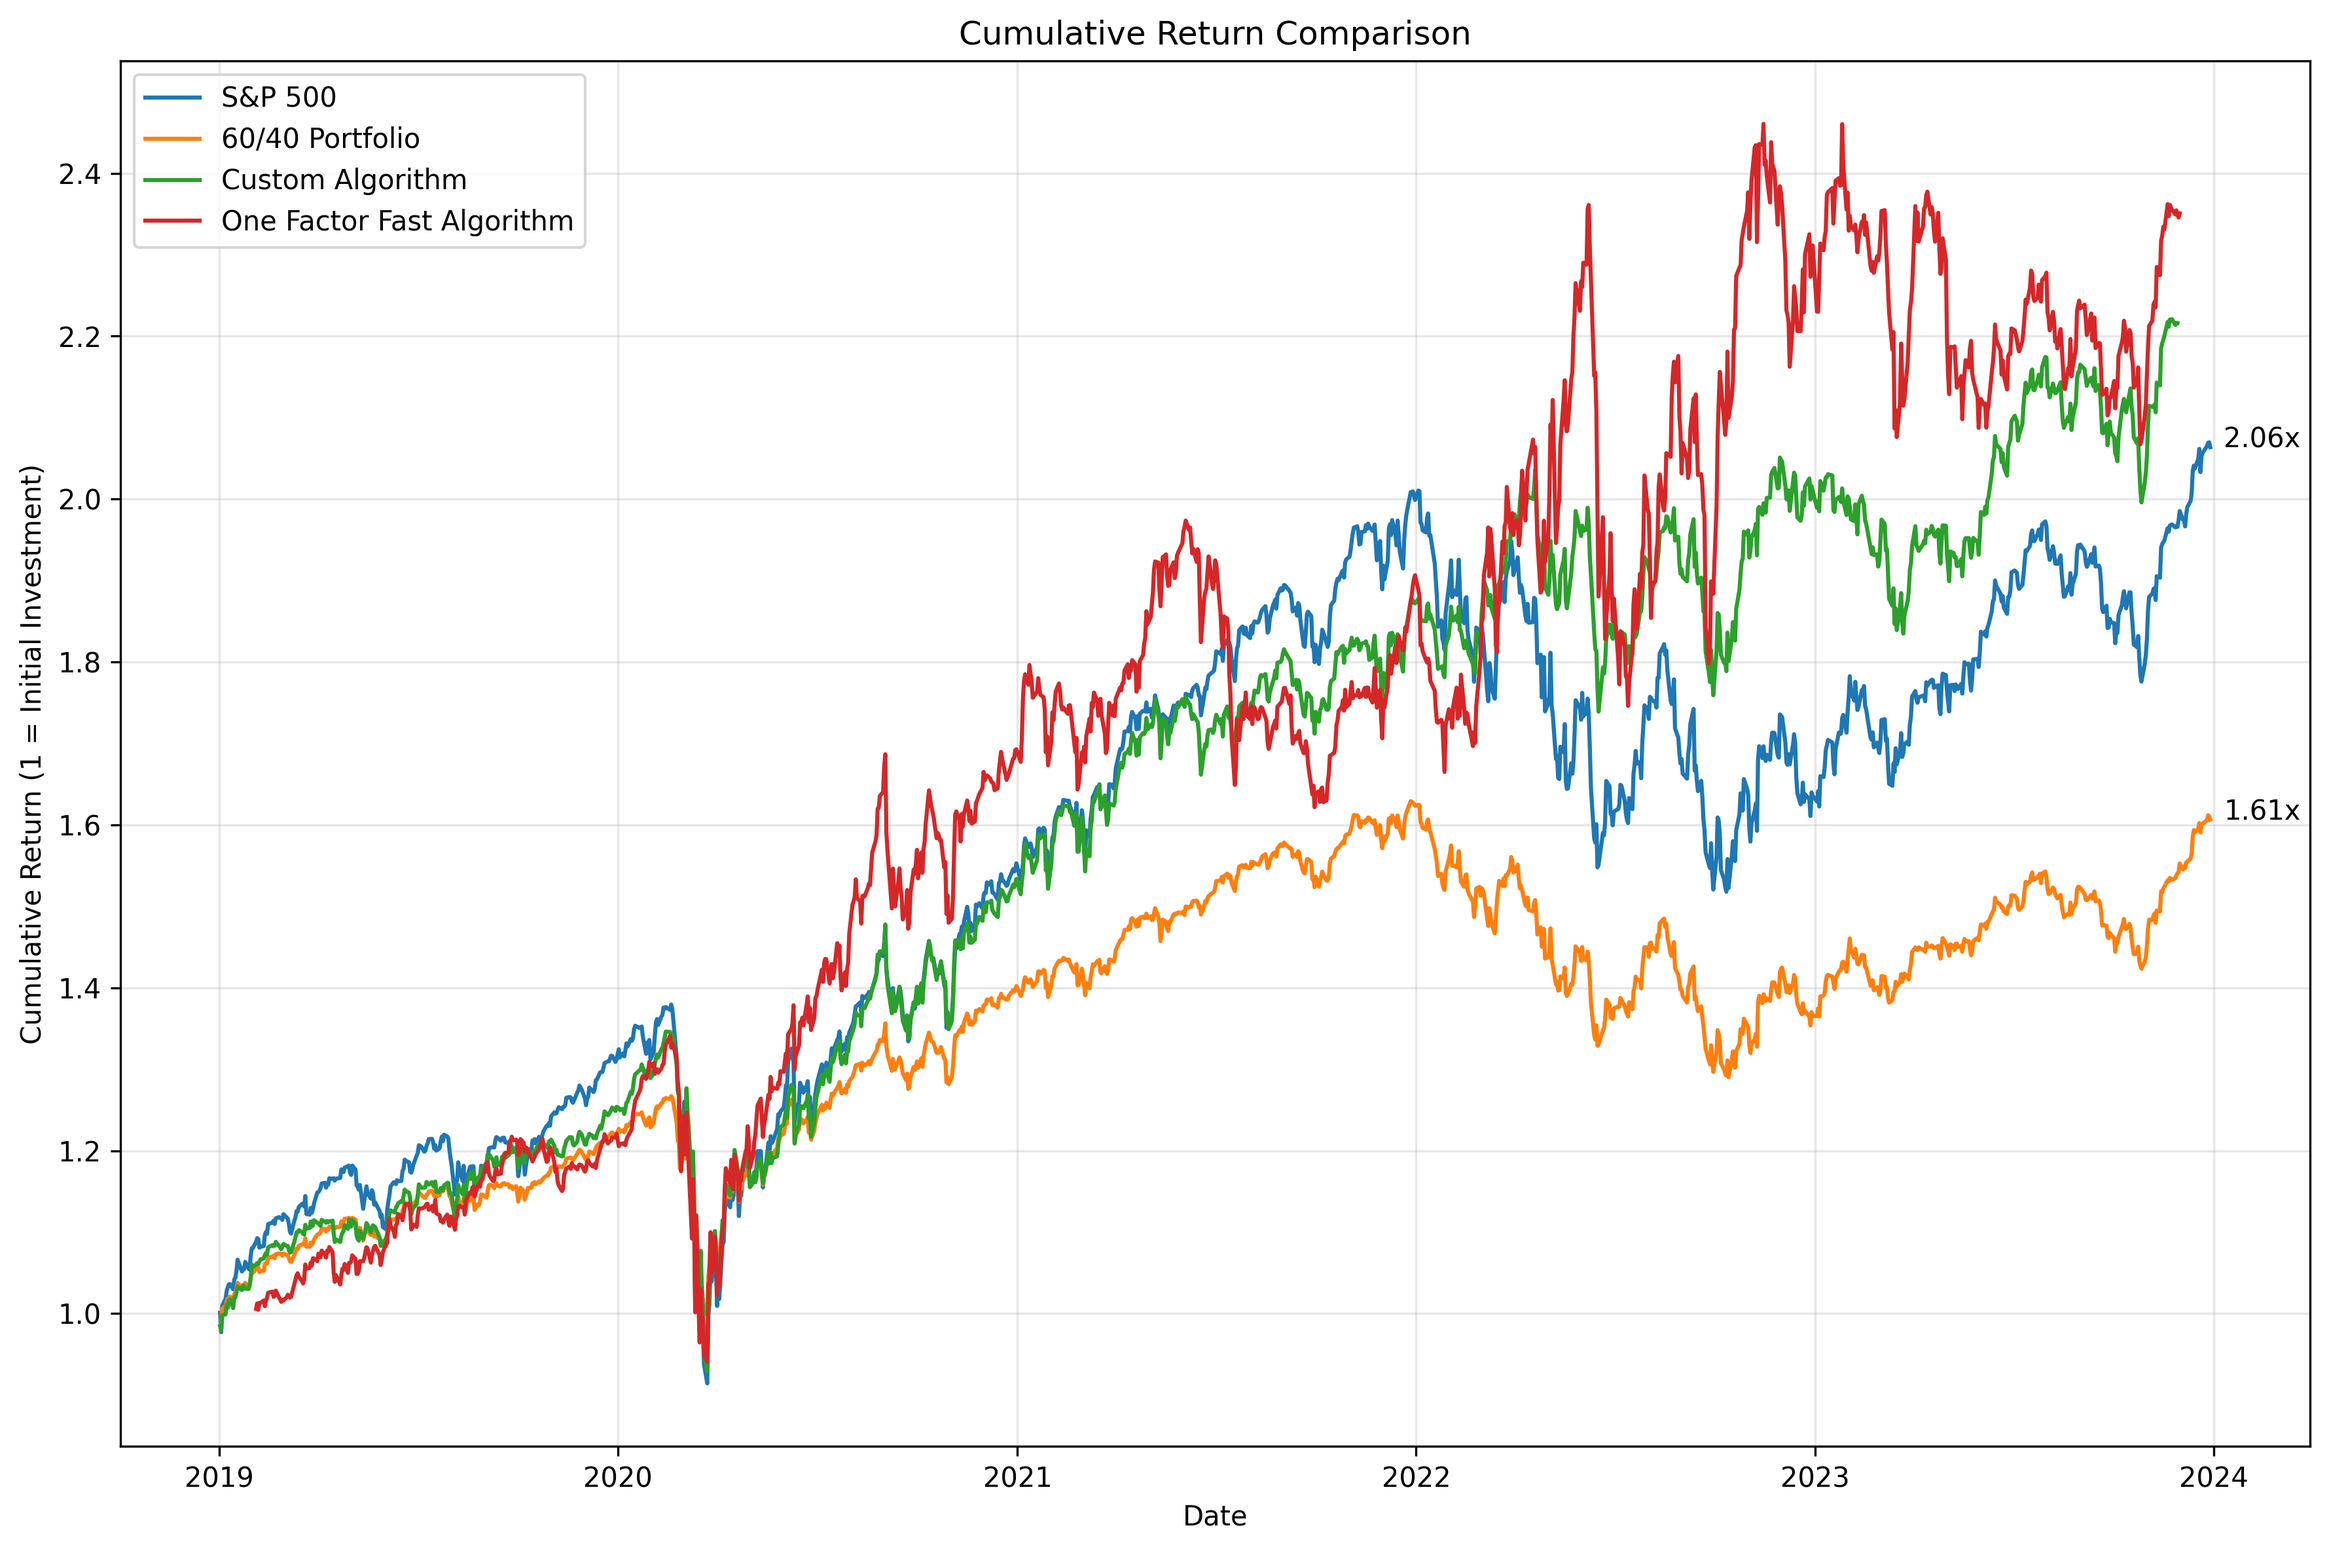
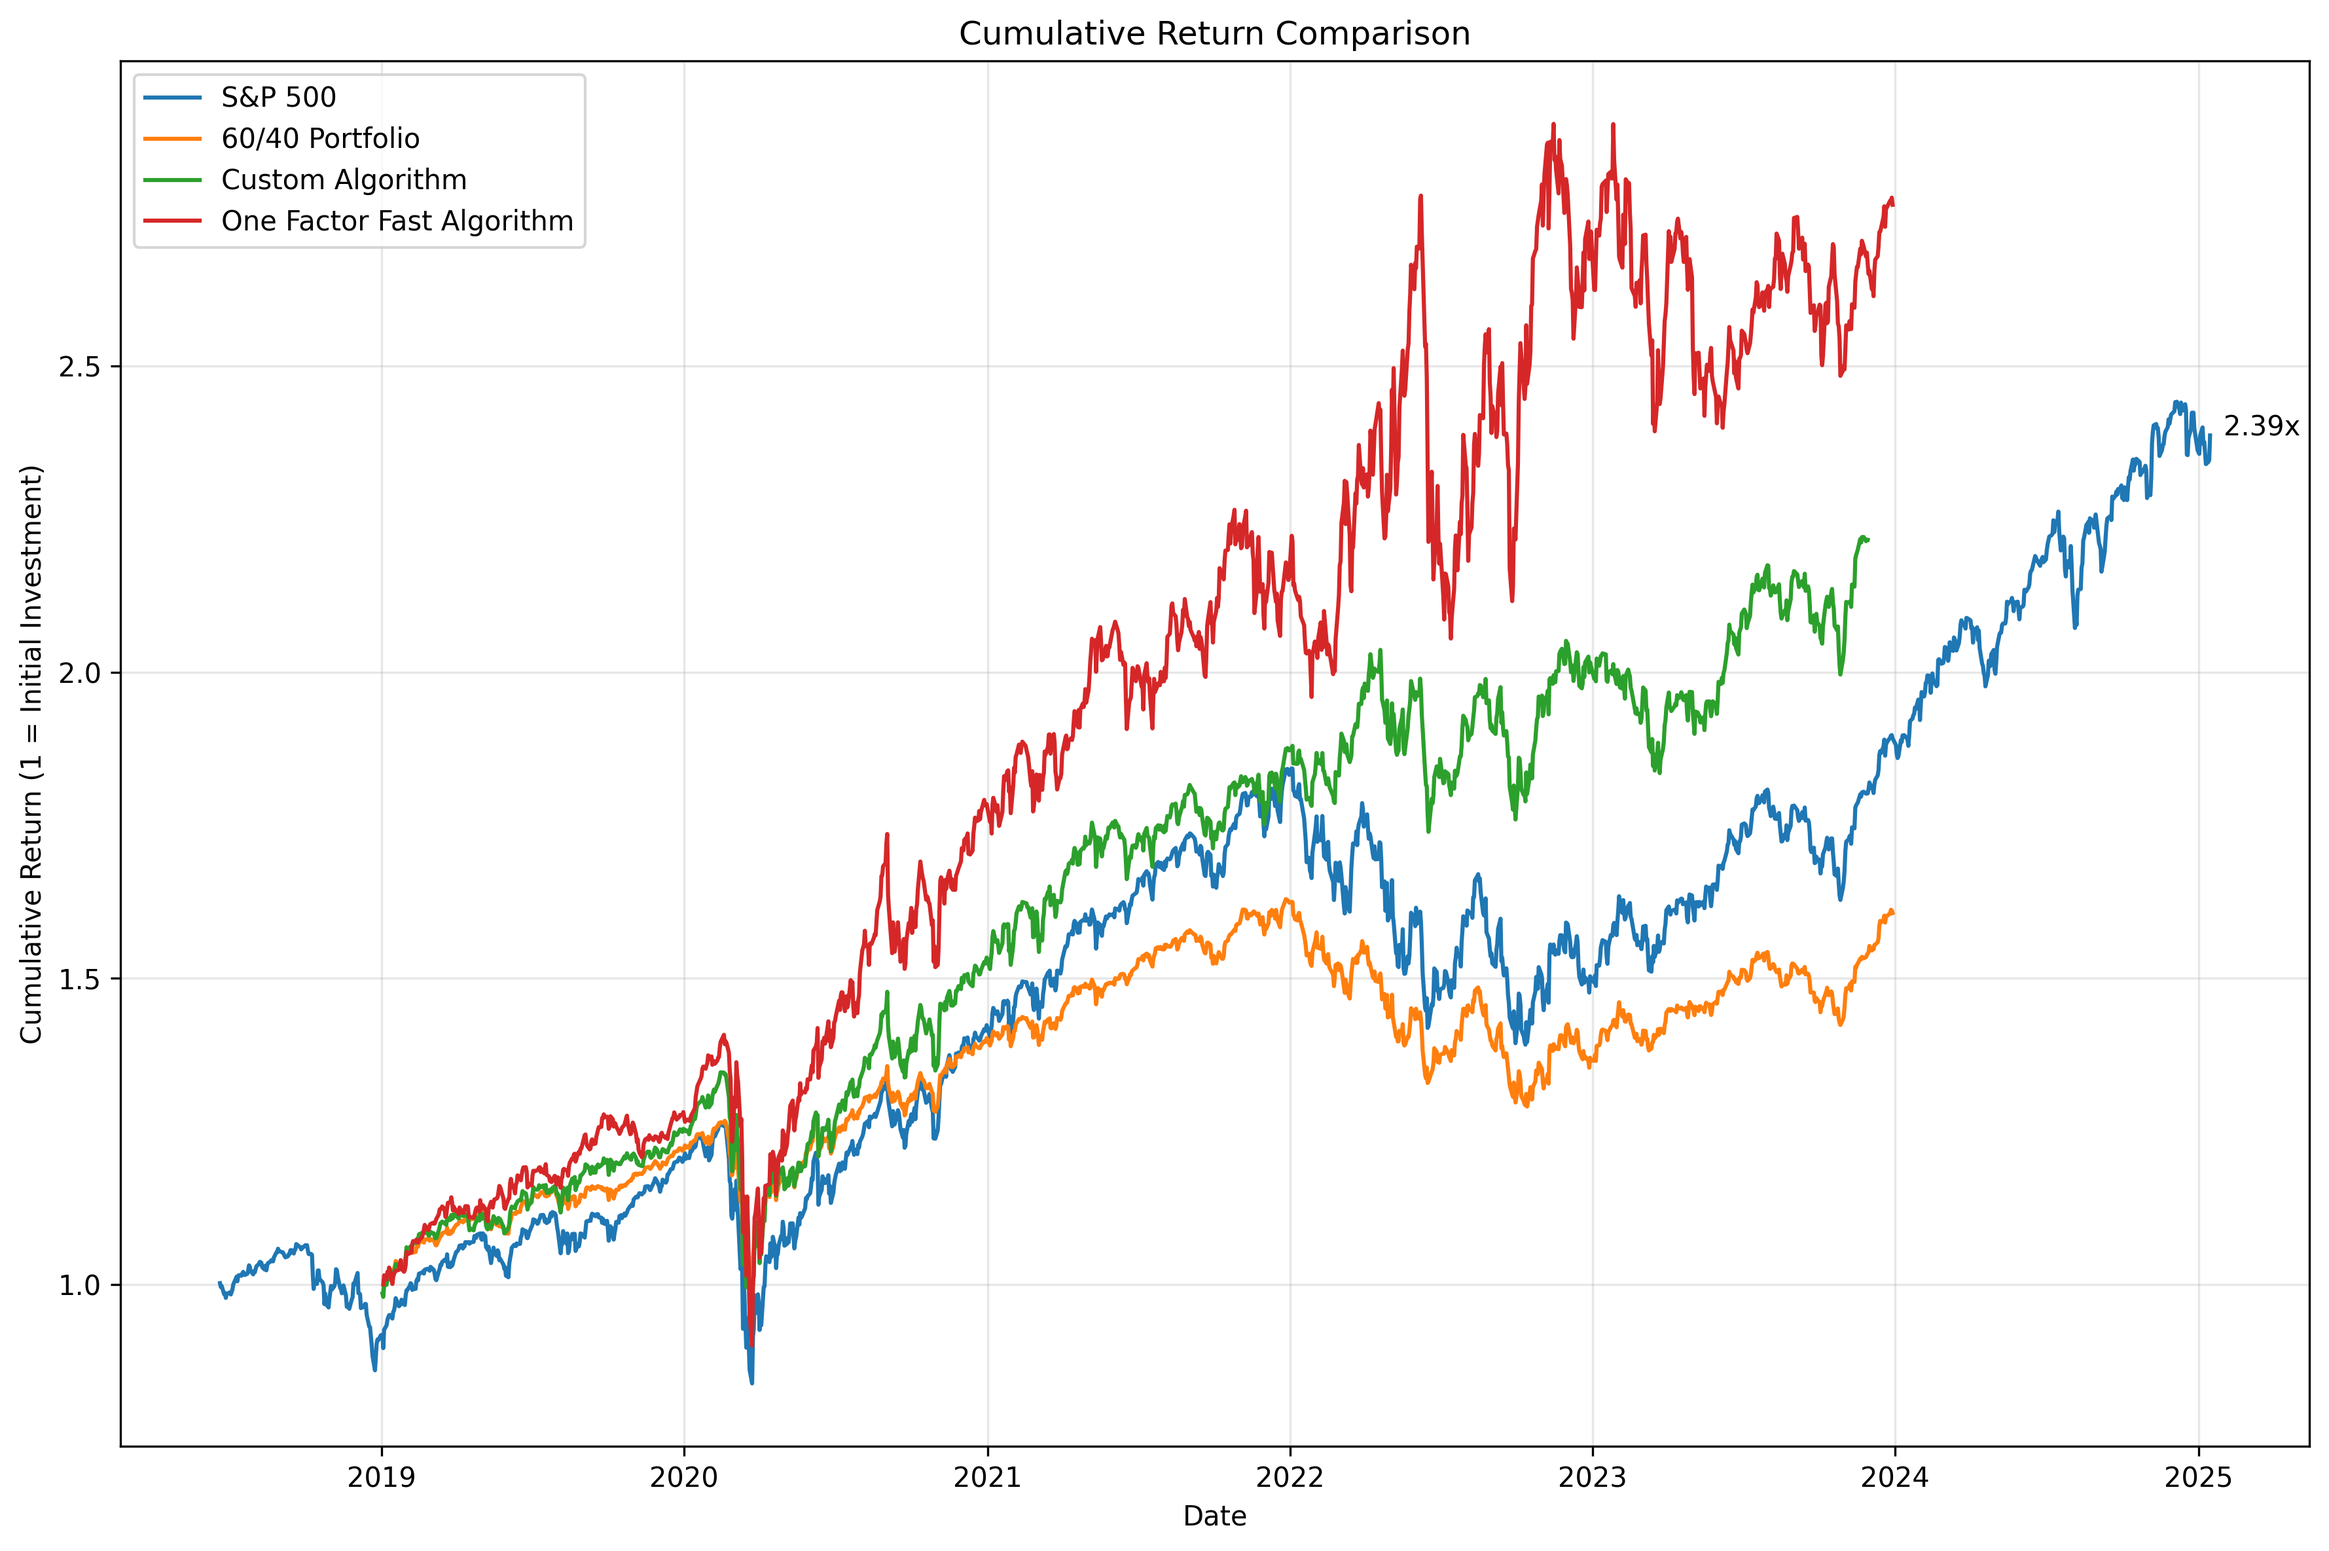
updating the fast algorithm to properly make choices for the first month

diff --git a/src/optimization/one_factor_fast_algorithm.py b/src/optimization/one_factor_fast_algorithm.py
@@ -60,6 +60,8 @@ def analyze_portfolio_performance_with_rebalancing(
     rebalance_frequency: str = "M",
     lookback_window: int = 252,
     years: int = 5,
+    start_date: str = None,
+    end_date: str = None,
     verbose: bool = False,
 ) -> pd.Series:
     """
@@ -83,6 +85,10 @@ def analyze_portfolio_performance_with_rebalancing(
         Number of days to look back for parameter estimation, by default 252
     years : int, optional
         Number of years to analyze, by default 5
+    start_date : str, optional
+        Start date for custom period (YYYY-MM-DD format)
+    end_date : str, optional
+        End date for custom period (YYYY-MM-DD format)
 
     Returns:
     --------
@@ -98,12 +104,37 @@ def analyze_portfolio_performance_with_rebalancing(
         "Y": "YS",  # Year Start
     }
 
-    # Generate rebalancing dates
-    start_date = returns_data.index[0]
-    end_date = returns_data.index[-1]
+    # Generate rebalancing dates starting from the portfolio start date
+    available_dates = returns_data.index
+    # Determine the true portfolio start date (after trailing data is included)
+    if start_date:
+        portfolio_start_date = pd.to_datetime(start_date)
+        # Align to first available trading day >= start_date
+        if (available_dates >= portfolio_start_date).any():
+            portfolio_start_date = available_dates[
+                available_dates >= portfolio_start_date
+            ][0]
+        else:
+            portfolio_start_date = available_dates[0]
+    else:
+        portfolio_start_date = available_dates[0]
     rebal_dates = pd.date_range(
-        start=start_date, end=end_date, freq=freq_map[rebalance_frequency]
+        start=portfolio_start_date,
+        end=available_dates[-1],
+        freq=freq_map[rebalance_frequency],
     )
+    # Align each rebalancing date to the closest available trading day ON OR AFTER the intended date
+    rebal_dates = [
+        available_dates[available_dates >= d][0]
+        if (available_dates >= d).any()
+        else available_dates[-1]
+        for d in rebal_dates
+    ]
+    # Ensure the period start date is included as the first rebalance
+    if rebal_dates[0] != portfolio_start_date:
+        rebal_dates = [portfolio_start_date] + rebal_dates
+    else:
+        rebal_dates = list(rebal_dates)
 
     # Initialize portfolio tracking
     portfolio_weights = {}
@@ -123,18 +154,69 @@ def analyze_portfolio_performance_with_rebalancing(
     for i in range(len(rebal_dates) - 1):
         start_rebal = rebal_dates[i]
         end_rebal = rebal_dates[i + 1]
+        # Align lookback_end to available dates
+        lookback_end = start_rebal
+        if lookback_end not in available_dates:
+            lookback_end = available_dates[available_dates <= lookback_end][-1]
+        # Find the index of lookback_end in returns_data
+        end_idx = available_dates.get_loc(lookback_end)
+        lookback_len = min(lookback_window, end_idx + 1)
+        lookback_start = available_dates[end_idx - lookback_len + 1]
+        lookback_data = returns_data.loc[lookback_start:lookback_end]
+        # Require a minimum lookback window of 30 days
+        min_lookback_window = 30
+        # Log if the lookback window is shorter than intended
+        if lookback_data.shape[0] < lookback_window:
+            print(
+                f"[REBALANCE WARNING] {start_rebal.date()}: lookback window shorter than intended ({lookback_data.shape[0]} < {lookback_window} days)"
+            )
+        if lookback_data.shape[0] < min_lookback_window:
+            print(
+                f"[REBALANCE SKIP] {start_rebal.date()}: lookback window too short ({lookback_data.shape[0]} < {min_lookback_window} days), skipping rebalance."
+            )
+            continue
+        # Exclude securities with incomplete data in the lookback window
+        valid_securities = lookback_data.columns[lookback_data.notna().all(axis=0)]
+        lookback_data_valid = lookback_data[valid_securities]
 
-        # Get lookback data for parameter estimation
-        lookback_start = start_rebal - pd.Timedelta(days=lookback_window)
-        print(
-            f"Rebalance on {start_rebal.date()}: using lookback window from {lookback_start.date()} to {start_rebal.date()} ({lookback_window} days)"
-        )
-        lookback_data = returns_data.loc[lookback_start:start_rebal]
-
+        # Align market data to lookback window
+        lookback_market = market_returns.loc[lookback_data.index]
+        # Check for sufficient and non-constant market data
+        if (
+            lookback_market.isna().all()
+            or lookback_market.var() == 0
+            or lookback_market.count() < 2
+        ):
+            print(
+                f"[REBALANCE SKIP] {start_rebal.date()}: insufficient or constant market data for lookback window (count={lookback_market.count()}, variance={lookback_market.var()})"
+            )
+            continue
+        dropped = set(lookback_data.columns) - set(valid_securities)
+        lookback_window_str = f"{lookback_start.date()} to {lookback_end.date()} (length: {lookback_data.shape[0]} days)"
+        if lookback_data_valid.shape[1] == 0:
+            print(
+                f"[REBALANCE] {start_rebal.date()}: lookback {lookback_window_str} -- NO DATA to make allocation (skipped)"
+            )
+            continue
+        else:
+            if dropped:
+                print(
+                    f"[REBALANCE] {start_rebal.date()}: lookback {lookback_window_str} -- allocation made on {lookback_data_valid.shape[1]} securities (dropped: {dropped})"
+                )
+            else:
+                print(
+                    f"[REBALANCE] {start_rebal.date()}: lookback {lookback_window_str} -- allocation made on {lookback_data_valid.shape[1]} securities (none dropped)"
+                )
+        # Logging for rebalance efforts
+        if lookback_data_valid.shape[1] == 0:
+            print(
+                f"[ERROR] No securities with complete data for lookback window ending {lookback_end.date()}. Skipping rebalance."
+            )
+            continue
         # Initialize and run the model
         model = SingleIndexModel(
-            returns=lookback_data,
-            market_returns=market_returns.loc[lookback_start:start_rebal],
+            returns=lookback_data_valid,
+            market_returns=market_returns.loc[lookback_start:lookback_end],
             risk_free_rate=risk_free_rate,
             output_dir=output_dir,
             verbose=verbose,
@@ -198,29 +280,47 @@ def analyze_portfolio_performance_with_rebalancing(
     # Save results
     os.makedirs(output_dir, exist_ok=True)
 
+    # Filter outputs for reporting if start_date/end_date are specified
+    filtered_index = portfolio_returns.index
+    if start_date:
+        filtered_index = filtered_index[filtered_index >= pd.to_datetime(start_date)]
+    if end_date:
+        filtered_index = filtered_index[filtered_index <= pd.to_datetime(end_date)]
+
     # Save portfolio returns
-    portfolio_returns.to_csv(
+    portfolio_returns.loc[filtered_index].to_csv(
         os.path.join(output_dir, "ofa_portfolio_returns.csv"),
         header=["Return"],
     )
     # Also save as XLSX
-    portfolio_returns.to_frame("Return").to_excel(
+    portfolio_returns.loc[filtered_index].to_frame("Return").to_excel(
         os.path.join(output_dir, "ofa_portfolio_returns.xlsx")
     )
 
     # Save portfolio weights
     weights_df = pd.DataFrame.from_dict(portfolio_weights, orient="index")
-    weights_df.to_csv(os.path.join(output_dir, "ofa_portfolio_weights.csv"))
+    weights_idx = weights_df.index.intersection(filtered_index)
+    weights_df.loc[weights_idx].to_csv(
+        os.path.join(output_dir, "ofa_portfolio_weights.csv")
+    )
     # Also save as XLSX
-    weights_df.to_excel(os.path.join(output_dir, "ofa_portfolio_weights.xlsx"))
+    weights_df.loc[weights_idx].to_excel(
+        os.path.join(output_dir, "ofa_portfolio_weights.xlsx")
+    )
 
     # Save security betas
-    security_betas.to_csv(os.path.join(output_dir, "ofa_security_betas.csv"))
+    betas_idx = security_betas.index.intersection(filtered_index)
+    security_betas.loc[betas_idx].to_csv(
+        os.path.join(output_dir, "ofa_security_betas.csv")
+    )
     # Also save as XLSX
-    security_betas.to_excel(os.path.join(output_dir, "ofa_security_betas.xlsx"))
+    security_betas.loc[betas_idx].to_excel(
+        os.path.join(output_dir, "ofa_security_betas.xlsx")
+    )
 
     # Save period-by-period information
     period_df = pd.DataFrame(period_info)
+    period_df = period_df[period_df["start_date"].isin(filtered_index)]
     period_df.to_csv(os.path.join(output_dir, "ofa_period_analysis.csv"))
     # Also save as XLSX
     period_df.to_excel(os.path.join(output_dir, "ofa_period_analysis.xlsx"))
@@ -240,6 +340,7 @@ def analyze_portfolio_performance_with_rebalancing(
             for period in period_info
         ]
     )
+    rebal_log_df = rebal_log_df[rebal_log_df["start_date"].isin(filtered_index)]
     rebal_log_df.to_excel(
         os.path.join(output_dir, "one_factor_fast_rebalancing.xlsx"), index=False
     )
@@ -312,14 +413,23 @@ def main(
                 print(f"Warning: Could not get period range for '{period}': {e}")
     # Filter by custom or named period if specified
     if period in ("custom", "recent", "financial_crisis", "post_crisis"):
+        # --- Ensure enough trailing data is included for lookback window ---
         if start_date:
-            returns_data = returns_data[
-                returns_data.index >= pd.to_datetime(start_date)
-            ]
-            market_data = market_data[market_data.index >= pd.to_datetime(start_date)]
-        if end_date:
-            returns_data = returns_data[returns_data.index <= pd.to_datetime(end_date)]
-            market_data = market_data[market_data.index <= pd.to_datetime(end_date)]
+            start_dt = pd.to_datetime(start_date)
+            if lookback_window > 1:
+                earliest_needed = start_dt - pd.Timedelta(
+                    days=int(lookback_window * 1.5)
+                )
+            else:
+                earliest_needed = start_dt
+            returns_data = returns_data[returns_data.index >= earliest_needed]
+            market_data = market_data[market_data.index >= earliest_needed]
+            print(
+                f"For period '{period}', including trailing data from {earliest_needed.strftime('%Y-%m-%d')} to {end_date}"
+            )
+        # --- END ---
+        # DO NOT filter returns_data/market_data for start_date or end_date here; do this only for outputs after optimization
+
     # Log the date boundaries used and the actual dates in the filtered data
     print(f"Start date argument: {start_date}")
     print(f"End date argument: {end_date}")
@@ -333,13 +443,15 @@ def main(
     # Run analysis
     portfolio_returns = analyze_portfolio_performance_with_rebalancing(
         returns_data,
-        market_data,
+        market_data.squeeze(),
         output_dir,
         period=period,
         risk_free_rate=risk_free_rate,
         rebalance_frequency=rebalance_frequency,
         lookback_window=lookback_window,
         years=years,
+        start_date=start_date,
+        end_date=end_date,
     )
 
     print("\nOne-Factor Fast Algorithm optimization complete")

diff --git a/src/preprocessing/generate_benchmarks.py b/src/preprocessing/generate_benchmarks.py
@@ -352,6 +352,19 @@ def main(
     if returns_data is None:
         return
 
+    # Save full SPY returns before any filtering
+    if "SPY" in returns_data.columns:
+        spy_returns = returns_data["SPY"]
+        spy_returns.to_csv(os.path.join(output_dir, "spy_returns.csv"), header=True)
+        print(
+            f"Saved full SPY benchmark to {os.path.join(output_dir, 'spy_returns.csv')}"
+        )
+    else:
+        print(
+            "[WARNING] SPY column not found in returns_data; spy_returns.csv not generated."
+        )
+
+    # Find date filter code here
     # Filter returns_data by period or start/end date if provided
     if period and period != "custom":
         if not start_date or not end_date:
@@ -381,7 +394,9 @@ def main(
 
     # Create SPY benchmark
     try:
-        spy_returns = create_spy_benchmark(returns_data)
+        if spy_returns is None:
+            spy_returns = create_spy_benchmark(returns_data)
+
         spy_file = os.path.join(output_dir, "spy_returns.csv")
         spy_returns.to_frame("SPY").to_csv(spy_file)
         print(f"Saved SPY benchmark returns to {spy_file}")
